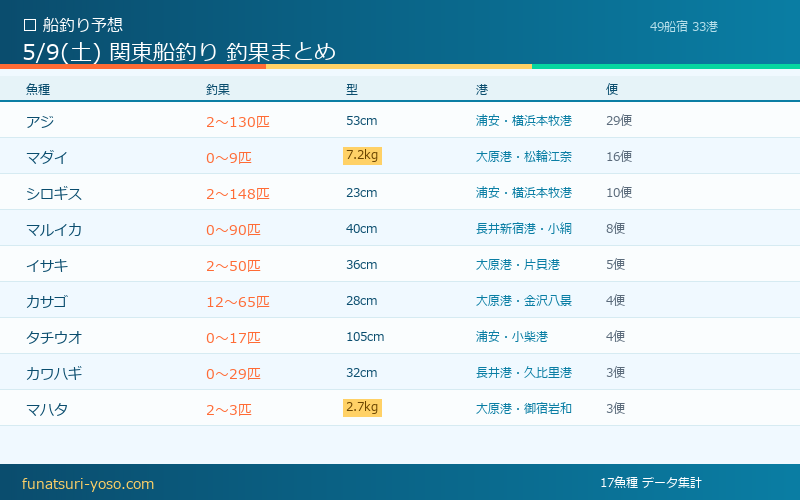
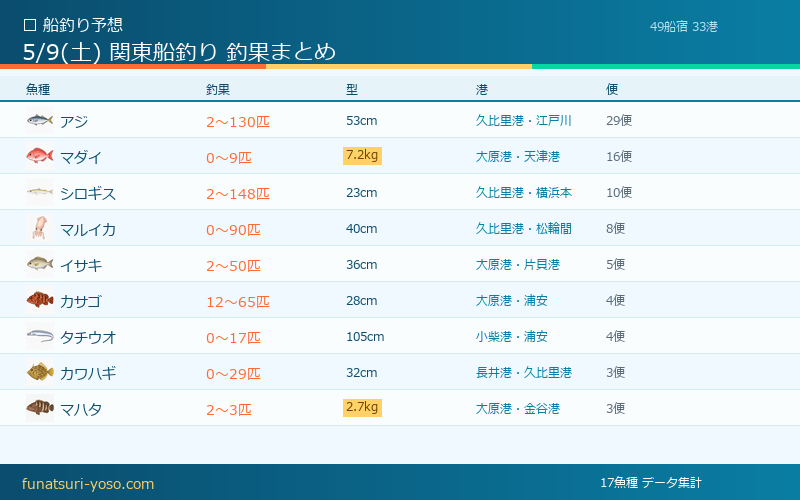
feat(x_post): PNG 各行に魚種アイコンを描画（28x28）
generate_image.py にアイコン読み込み + paste ロジック追加。
fish_romaji_map.json で日本語→ローマ字解決し、
docs/assets/fish/{romaji}/{romaji}_icon_sm.png を 28x28 にリサイズ。
アイコン無し魚種は従来通り魚種名のみ表示（後方互換）。

各行の魚種列レイアウト: [ icon 28x28 ] [pad 6px] [魚種名]

diff --git a/docs/x_post/2026-05-09.html b/docs/x_post/2026-05-09.html
@@ -272,14 +272,14 @@ footer { background: var(--accent); color: rgba(255,255,255,0.8); font-size: 11p
 
 <h3 class="commentary-h">魚種別釣果報告</h3>
 <p>全体感としては、今日は<b>「アジ・マダイ・シロギス」のシーズン安定組</b>と<b>「ワラサ」の単発大物・好機組</b>に分かれる構成でした。
-<b>アジ</b>は浦安・横浜本牧港エリアで<span class="num">3桁釣果</span>が頻発し、群れの動きが継続中。<b><a href="/ship/onuki-maru.html">大貫丸</a>の130匹</b>は今週の全便でも上位の記録です。
-<b>マダイ</b>は大原港・松輪江奈港で0〜9匹レンジ。7.2kgの大型は<span class="highlight">サイズが明確に上向き</span>な印象。
-<b>シロギス</b>は浦安・横浜本牧港の浅場で<span class="num">大爆発</span>。湾奥への河川流入と水温上昇でベイト溜まりが形成された影響と推察されます。<b><a href="/ship/nagasakiya.html">長崎屋</a>の148匹</b>は今期トップ級の記録です。
+<b>アジ</b>は久比里港・江戸川放水路･原木中山エリアで<span class="num">3桁釣果</span>が頻発し、群れの動きが継続中。<b><a href="/ship/onuki-maru.html">大貫丸</a>の130匹</b>は今週の全便でも上位の記録です。
+<b>マダイ</b>は大原港・天津港で0〜9匹レンジ。7.2kgの大型は<span class="highlight">サイズが明確に上向き</span>な印象。
+<b>シロギス</b>は久比里港・横浜本牧港の浅場で<span class="num">大爆発</span>。湾奥への河川流入と水温上昇でベイト溜まりが形成された影響と推察されます。<b><a href="/ship/nagasakiya.html">長崎屋</a>の148匹</b>は今期トップ級の記録です。
 <b>カワハギ</b>は長井港・久比里港で0〜29匹・5〜32cm。底物の繊細な釣りが好きな常連で常に予約が埋まる人気ジャンルで、本日も複数船宿で安定した釣果が記録されました。
-<b>タチウオ</b>は浦安・小柴港方面で0〜17匹、サイズは<b>60〜105cm</b>と大型揃い。冬の名残のドラゴン級が春の早朝便で出ているパターンです。
-<b>マルイカ</b>は長井新宿港・小網代港で0〜90匹。<a href="/ship/kiheiji-maru.html">喜平治丸</a>が継続的な好実績で、剣崎沖の良型群が継続中です。
+<b>タチウオ</b>は小柴港・浦安方面で0〜17匹、サイズは<b>60〜105cm</b>と大型揃い。冬の名残のドラゴン級が春の早朝便で出ているパターンです。
+<b>マルイカ</b>は久比里港・松輪間口港で0〜90匹。<a href="/ship/kiheiji-maru.html">喜平治丸</a>が継続的な好実績で、剣崎沖の良型群が継続中です。
 <b>ヤリイカ</b>は勝浦川津港方面で4〜24匹。<a href="/ship/fudo-maru.html">不動丸</a>など継続的に良型が記録されています。
-<b>スルメイカ</b>は長井新宿港・長井港方面で4〜55匹。ローテーション釣行に組み込みやすい魚種です。
+<b>スルメイカ</b>は長井港・松輪間口港方面で4〜55匹。ローテーション釣行に組み込みやすい魚種です。
 全17魚種が顔を揃えた幅広い釣果構成。アジ・マダイ・シロギスが三本柱として件数を稼ぎ、マルイカ・イサキ・カサゴも少数ながら確実に記録されています。同日に複数魚種を狙えるため、釣行の自由度が高いタイミングと言えます。</p>
 </div>
   </section>
@@ -306,28 +306,28 @@ footer { background: var(--accent); color: rgba(255,255,255,0.8); font-size: 11p
         <div class="name">アジ<span class="badge">29便</span></div>
         <div class="catch">2〜130匹</div>
         <span class="size">16〜53cm</span>
-        <div class="port">浦安・横浜本牧港</div>
+        <div class="port">久比里港・江戸川放水路･原木中山</div>
       </div>
       <div class="fish-row">
         <img class="icon" src="../assets/fish/madai/madai_emoji.webp" alt="マダイ" onerror="this.style.display='none'">
         <div class="name">マダイ<span class="badge">16便</span></div>
         <div class="catch">0〜9匹</div>
         <span class="size kg">0.3〜7.2kg</span>
-        <div class="port">大原港・松輪江奈港</div>
+        <div class="port">大原港・天津港</div>
       </div>
       <div class="fish-row">
         <img class="icon" src="../assets/fish/shirogisu/shirogisu_emoji.webp" alt="シロギス" onerror="this.style.display='none'">
         <div class="name">シロギス<span class="badge">10便</span></div>
         <div class="catch">2〜148匹</div>
         <span class="size">5〜23cm</span>
-        <div class="port">浦安・横浜本牧港</div>
+        <div class="port">久比里港・横浜本牧港</div>
       </div>
       <div class="fish-row">
         <img class="icon" src="../assets/fish/maruika/maruika_emoji.webp" alt="マルイカ" onerror="this.style.display='none'">
         <div class="name">マルイカ<span class="badge">8便</span></div>
         <div class="catch">0〜90匹</div>
         <span class="size">13〜40cm</span>
-        <div class="port">長井新宿港・小網代港</div>
+        <div class="port">久比里港・松輪間口港</div>
       </div>
       <div class="fish-row">
         <img class="icon" src="../assets/fish/isaki/isaki_emoji.webp" alt="イサキ" onerror="this.style.display='none'">
@@ -341,14 +341,14 @@ footer { background: var(--accent); color: rgba(255,255,255,0.8); font-size: 11p
         <div class="name">カサゴ<span class="badge">4便</span></div>
         <div class="catch">12〜65匹</div>
         <span class="size">13〜28cm</span>
-        <div class="port">大原港・金沢八景</div>
+        <div class="port">大原港・浦安</div>
       </div>
       <div class="fish-row">
         <img class="icon" src="../assets/fish/tachiuo/tachiuo_emoji.webp" alt="タチウオ" onerror="this.style.display='none'">
         <div class="name">タチウオ<span class="badge">4便</span></div>
         <div class="catch">0〜17匹</div>
         <span class="size">60〜105cm</span>
-        <div class="port">浦安・小柴港</div>
+        <div class="port">小柴港・浦安</div>
       </div>
       <div class="fish-row">
         <img class="icon" src="../assets/fish/kawahagi/kawahagi_emoji.webp" alt="カワハギ" onerror="this.style.display='none'">
@@ -362,14 +362,14 @@ footer { background: var(--accent); color: rgba(255,255,255,0.8); font-size: 11p
         <div class="name">マハタ<span class="badge">3便</span></div>
         <div class="catch">2〜3匹</div>
         <span class="size kg">0.8〜2.7kg</span>
-        <div class="port">大原港・御宿岩和田港</div>
+        <div class="port">大原港・金谷港</div>
       </div>
       <div class="fish-row">
         <img class="icon" src="../assets/fish/surumeika/surumeika_emoji.webp" alt="スルメイカ" onerror="this.style.display='none'">
         <div class="name">スルメイカ<span class="badge">3便</span></div>
         <div class="catch">4〜55匹</div>
         <span class="size">20〜35cm</span>
-        <div class="port">長井新宿港・長井港</div>
+        <div class="port">長井港・松輪間口港</div>
       </div>
       <div class="fish-row">
         <img class="icon" src="../assets/fish/magochi/magochi_emoji.webp" alt="マゴチ" onerror="this.style.display='none'">
@@ -383,7 +383,7 @@ footer { background: var(--accent); color: rgba(255,255,255,0.8); font-size: 11p
         <div class="name">ワラサ<span class="badge">2便</span></div>
         <div class="catch">0〜11匹</div>
         <span class="size kg">2.0〜5.0kg</span>
-        <div class="port">波崎港・鹿島港</div>
+        <div class="port">鹿島港・波崎港</div>
       </div>
       <div class="fish-row">
         <img class="icon" src="../assets/fish/fugu/fugu_emoji.webp" alt="フグ" onerror="this.style.display='none'">

diff --git a/x_post/generate_image.py b/x_post/generate_image.py
@@ -143,6 +143,35 @@ def create(ctx, output_path):
     ROW_TOP = TABLE_TOP + TH_H + 2
     MAX_ROWS = min(len(fish_rows), 9)  # 最大9行（500px に収める）
 
+    # 魚種アイコン読み込み（fish_romaji_map.json から romaji 解決）
+    import json
+    _fish_romaji_path = os.path.join(root_dir, "normalize", "fish_romaji_map.json")
+    try:
+        with open(_fish_romaji_path, encoding="utf-8") as _f:
+            _fish_romaji = json.load(_f)
+    except Exception:
+        _fish_romaji = {}
+
+    def _load_icon(fish_name, size=28):
+        """魚種アイコン PNG を読み込んで size x size にリサイズして返す。失敗時 None。"""
+        romaji = _fish_romaji.get(fish_name, fish_name.lower()).replace("-", "")
+        if not romaji:
+            return None
+        for fname in (f"{romaji}_icon_sm.png", f"{romaji}_icon.png"):
+            p = os.path.join(root_dir, "docs", "assets", "fish", romaji, fname)
+            if os.path.exists(p):
+                try:
+                    icon = Image.open(p).convert("RGBA")
+                    icon = icon.resize((size, size), Image.LANCZOS)
+                    return icon
+                except Exception:
+                    continue
+        return None
+
+    ICON_SIZE = 28
+    ICON_PAD = 6  # アイコンと魚種名の間隔
+    NAME_OFFSET_X = ICON_SIZE + ICON_PAD  # 魚種名の左オフセット
+
     for i, row in enumerate(fish_rows[:MAX_ROWS]):
         y = ROW_TOP + i * ROW_H
         row_bg = (250, 253, 254) if i % 2 == 0 else C_BG
@@ -156,8 +185,17 @@ def create(ctx, output_path):
         top_port = row.get("top_port", "")
         n_trips = row.get("n_trips", 0)
 
+        # 魚種アイコン（あれば）
+        icon = _load_icon(fish_name, ICON_SIZE)
+        if icon is not None:
+            icon_y = y + (ROW_H - ICON_SIZE) // 2
+            img.paste(icon, (COL_X[0] + 4, icon_y), icon)
+            name_x = COL_X[0] + 4 + NAME_OFFSET_X
+        else:
+            name_x = COL_X[0] + 4
+
         # 魚種名
-        draw.text((COL_X[0] + 4, y + 10), fish_name, font=fn_bold_14, fill=(10, 77, 110))
+        draw.text((name_x, y + 10), fish_name, font=fn_bold_14, fill=(10, 77, 110))
 
         # 釣果 MIN〜MAX
         catch_str = f"{cnt_min}〜{cnt_max}匹"